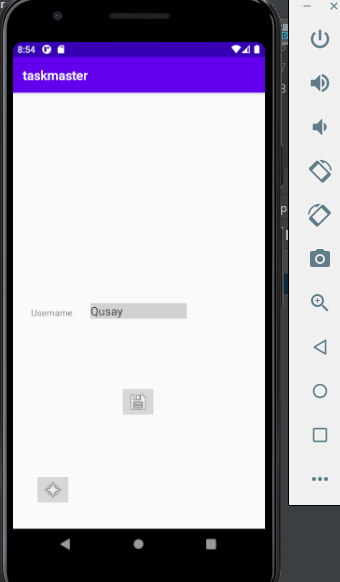
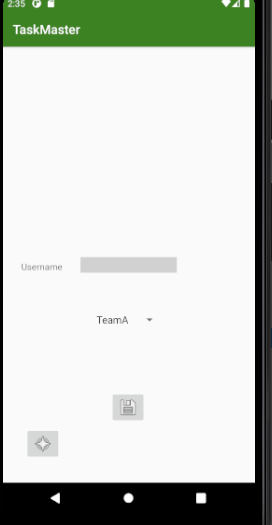
finish lab36

diff --git a/README.md b/README.md
@@ -2,24 +2,36 @@
 
 An android application that has these features : 
 
-1. you can customize it and put your username , which will appear in the home page : 
-to enter your username , you should to settings where you can enter it and save it .
+1. Sign up , Sign in and Sign out .
 
-2. add any task you want , where you can add a task title and task description and it will be shown in the tasks activity :
-to add a task you should click on Add Task , and then enter the task , and to see the task , from the home page 
+2. you can customize it and put your username , which will appear in the home page : 
+to enter your username , you should to settings where you can enter it and save it , you can also specify which team you want to see its tasks .
+
+3. add any task you want , where you can add a task title and task description and you can specify it to any team belongs :
+to add a task you should click on Add Task , and then enter the task , and to see the task , from the main page 
 you should click on the tasks button .
    
-3. you can delete a task , and you can do it by clicking on the delete button 
+4. in tasks page , you will see the tasks that belongs to the team you specified in the settings page
+   
+5. you can delete a task , and you can do it by clicking on the delete button 
 
-4. you can see a page that show a task details about a specific task , and you can do it by clicking on the more button
+6. you can see a page that show a task details about a specific task , and you can do it by clicking on the more button
 
 
 
-![HomePage](screenshots/homePage.PNG)
+![LandingPage](screenshots/landingPage.PNG)
 <br><br><br>
-![alltasksPage](screenshots/alltasksPage.PNG)
+
+![SignUp](screenshots/signUpPage.PNG)
 <br><br><br>
-![settings](screenshots/settings.PNG)
+
+![SignIn](screenshots/signInPage.PNG)
+<br><br><br>
+
+![MainPage](screenshots/mainPage.PNG)
+<br><br><br>
+
+![settings](screenshots/settingsPage.PNG)
 <br><br><br>
 ![addTaskPage](screenshots/addTaskPage.PNG)
 <br><br><br>
